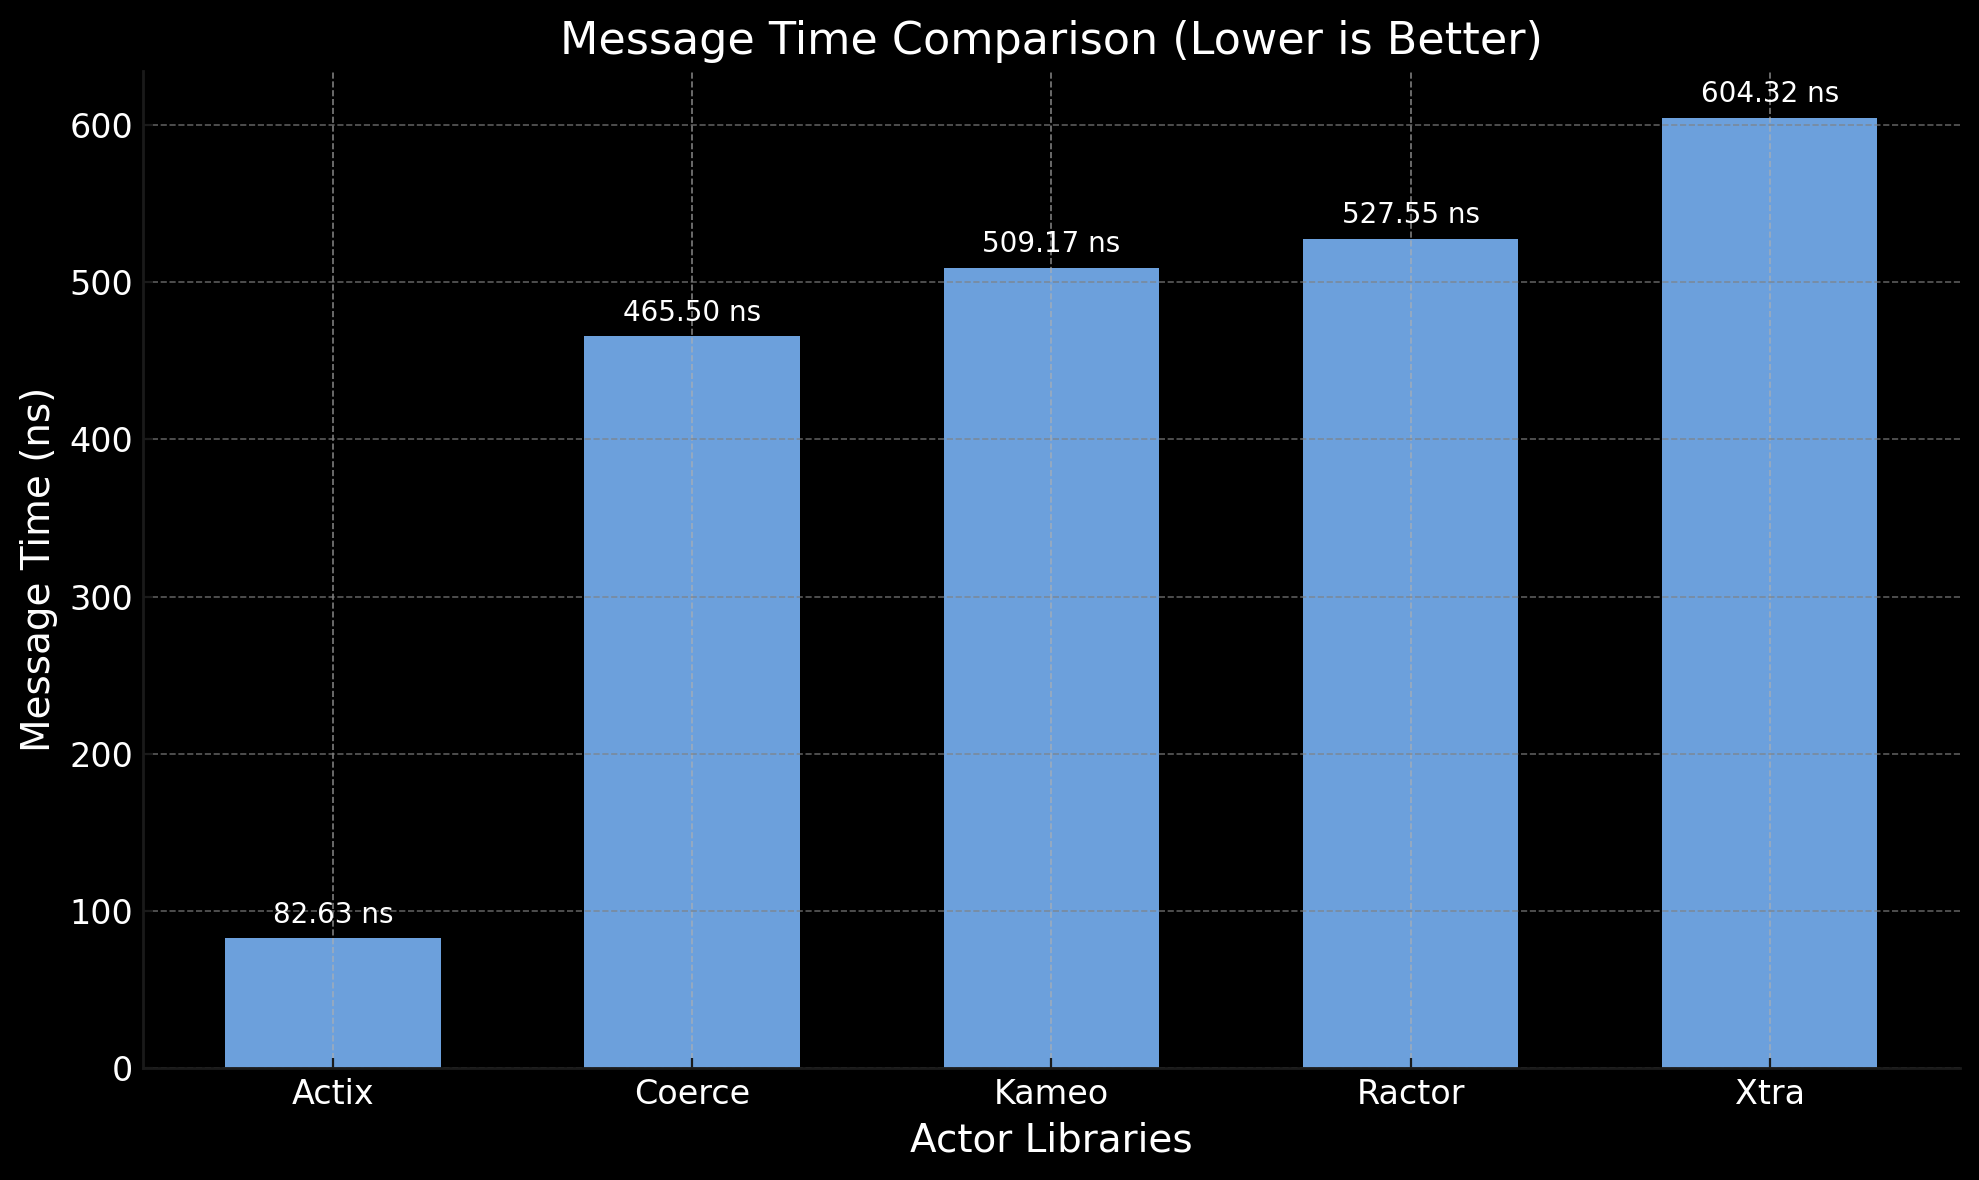
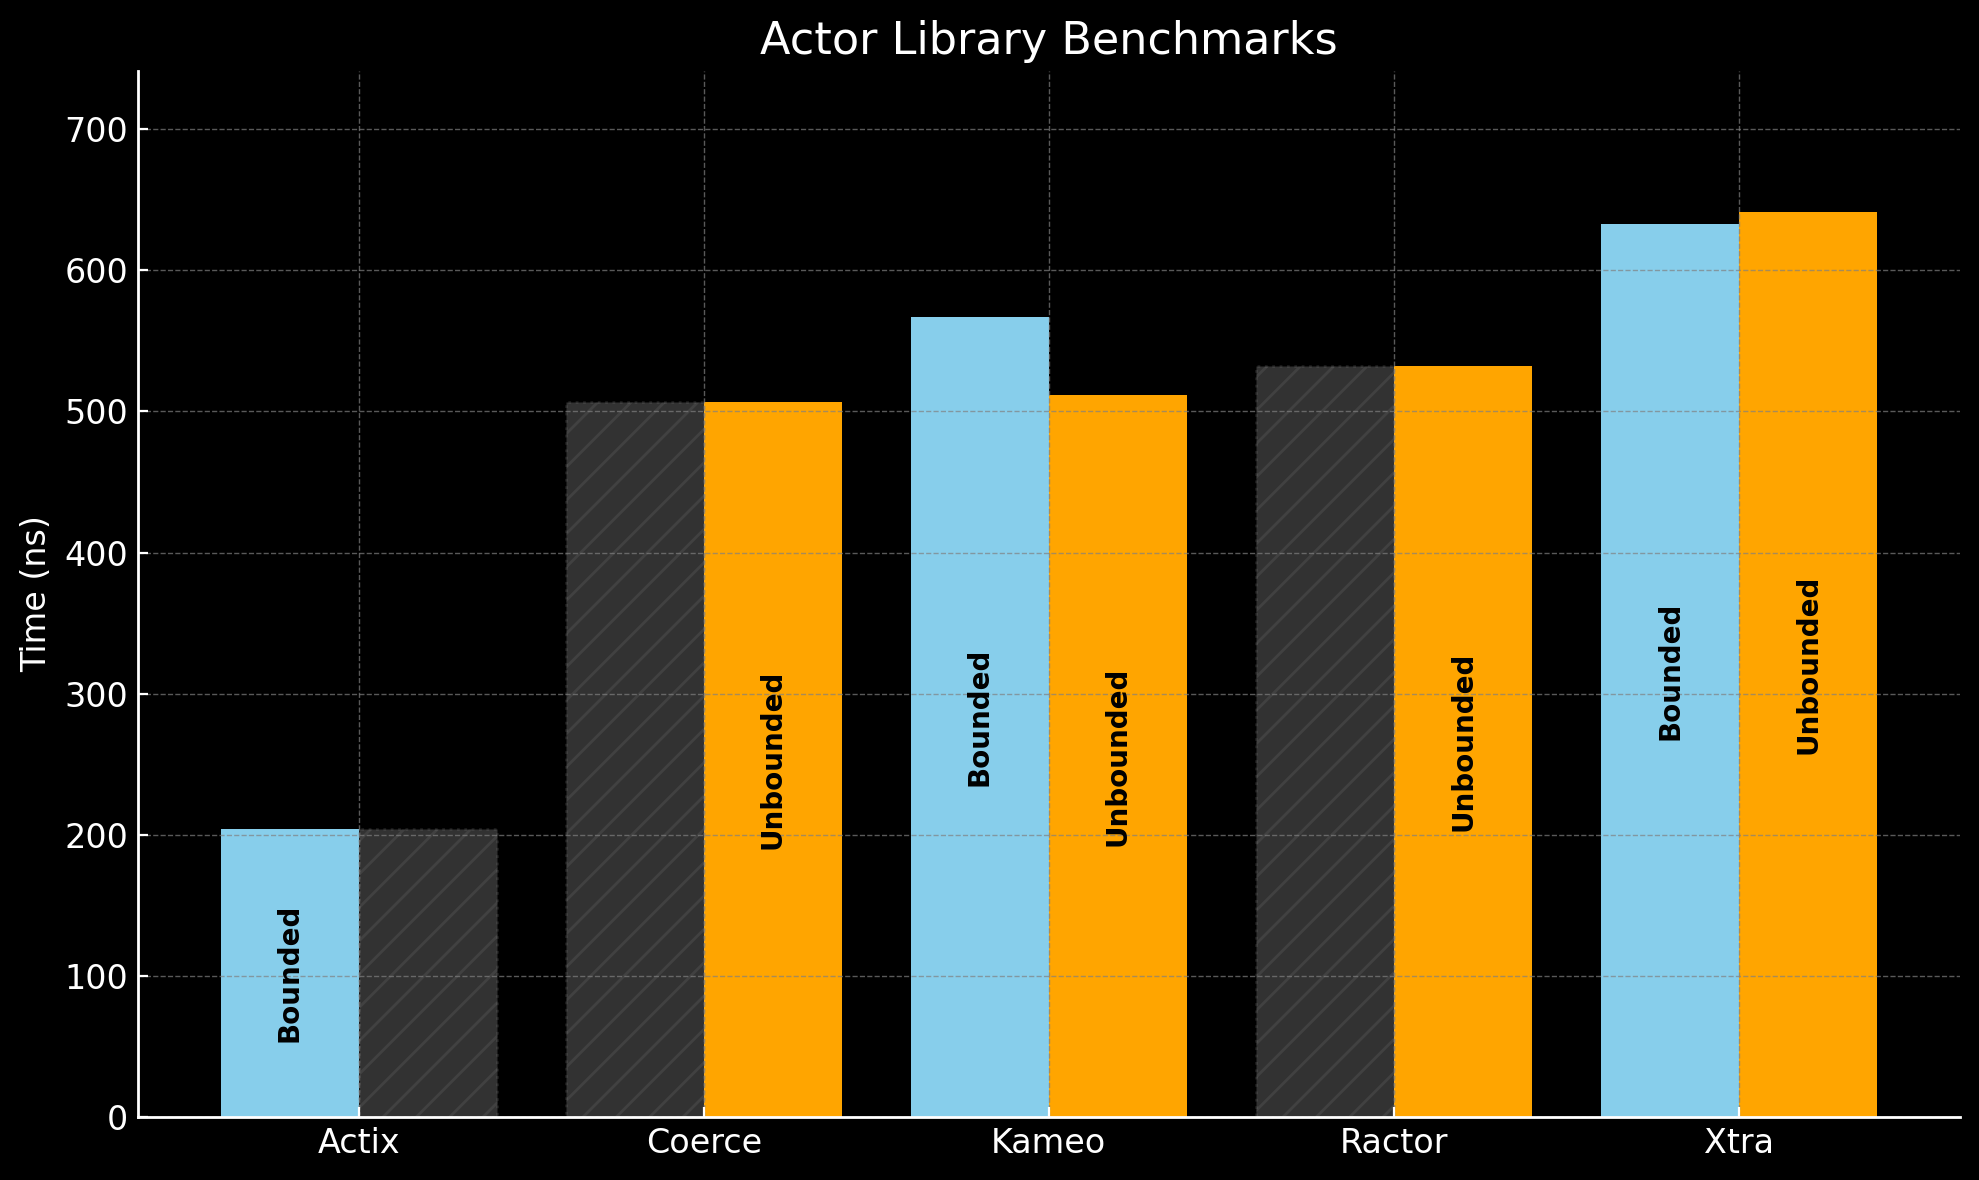
feat: update results for actor messaging benchmark

diff --git a/content/blog/comparing-rust-actor-libraries.md b/content/blog/comparing-rust-actor-libraries.md
@@ -125,7 +125,7 @@ Below is a high-level overview of each library’s capabilities, including mailb
 ## Observations and Trade-Offs
 
 1. **Bounded vs. Unbounded Mailboxes**  
-   - Some libraries only support one type of mailbox, while others support both. Where both are supported, differences were negligible in these tests, so those times were averaged.
+   - Some libraries only support one type of mailbox, while others support both.
 
 2. **Fault Tolerance & Distributed Communication**  
    - **Kameo**, **Coerce**, and **Ractor** include built-in distribution features.  
